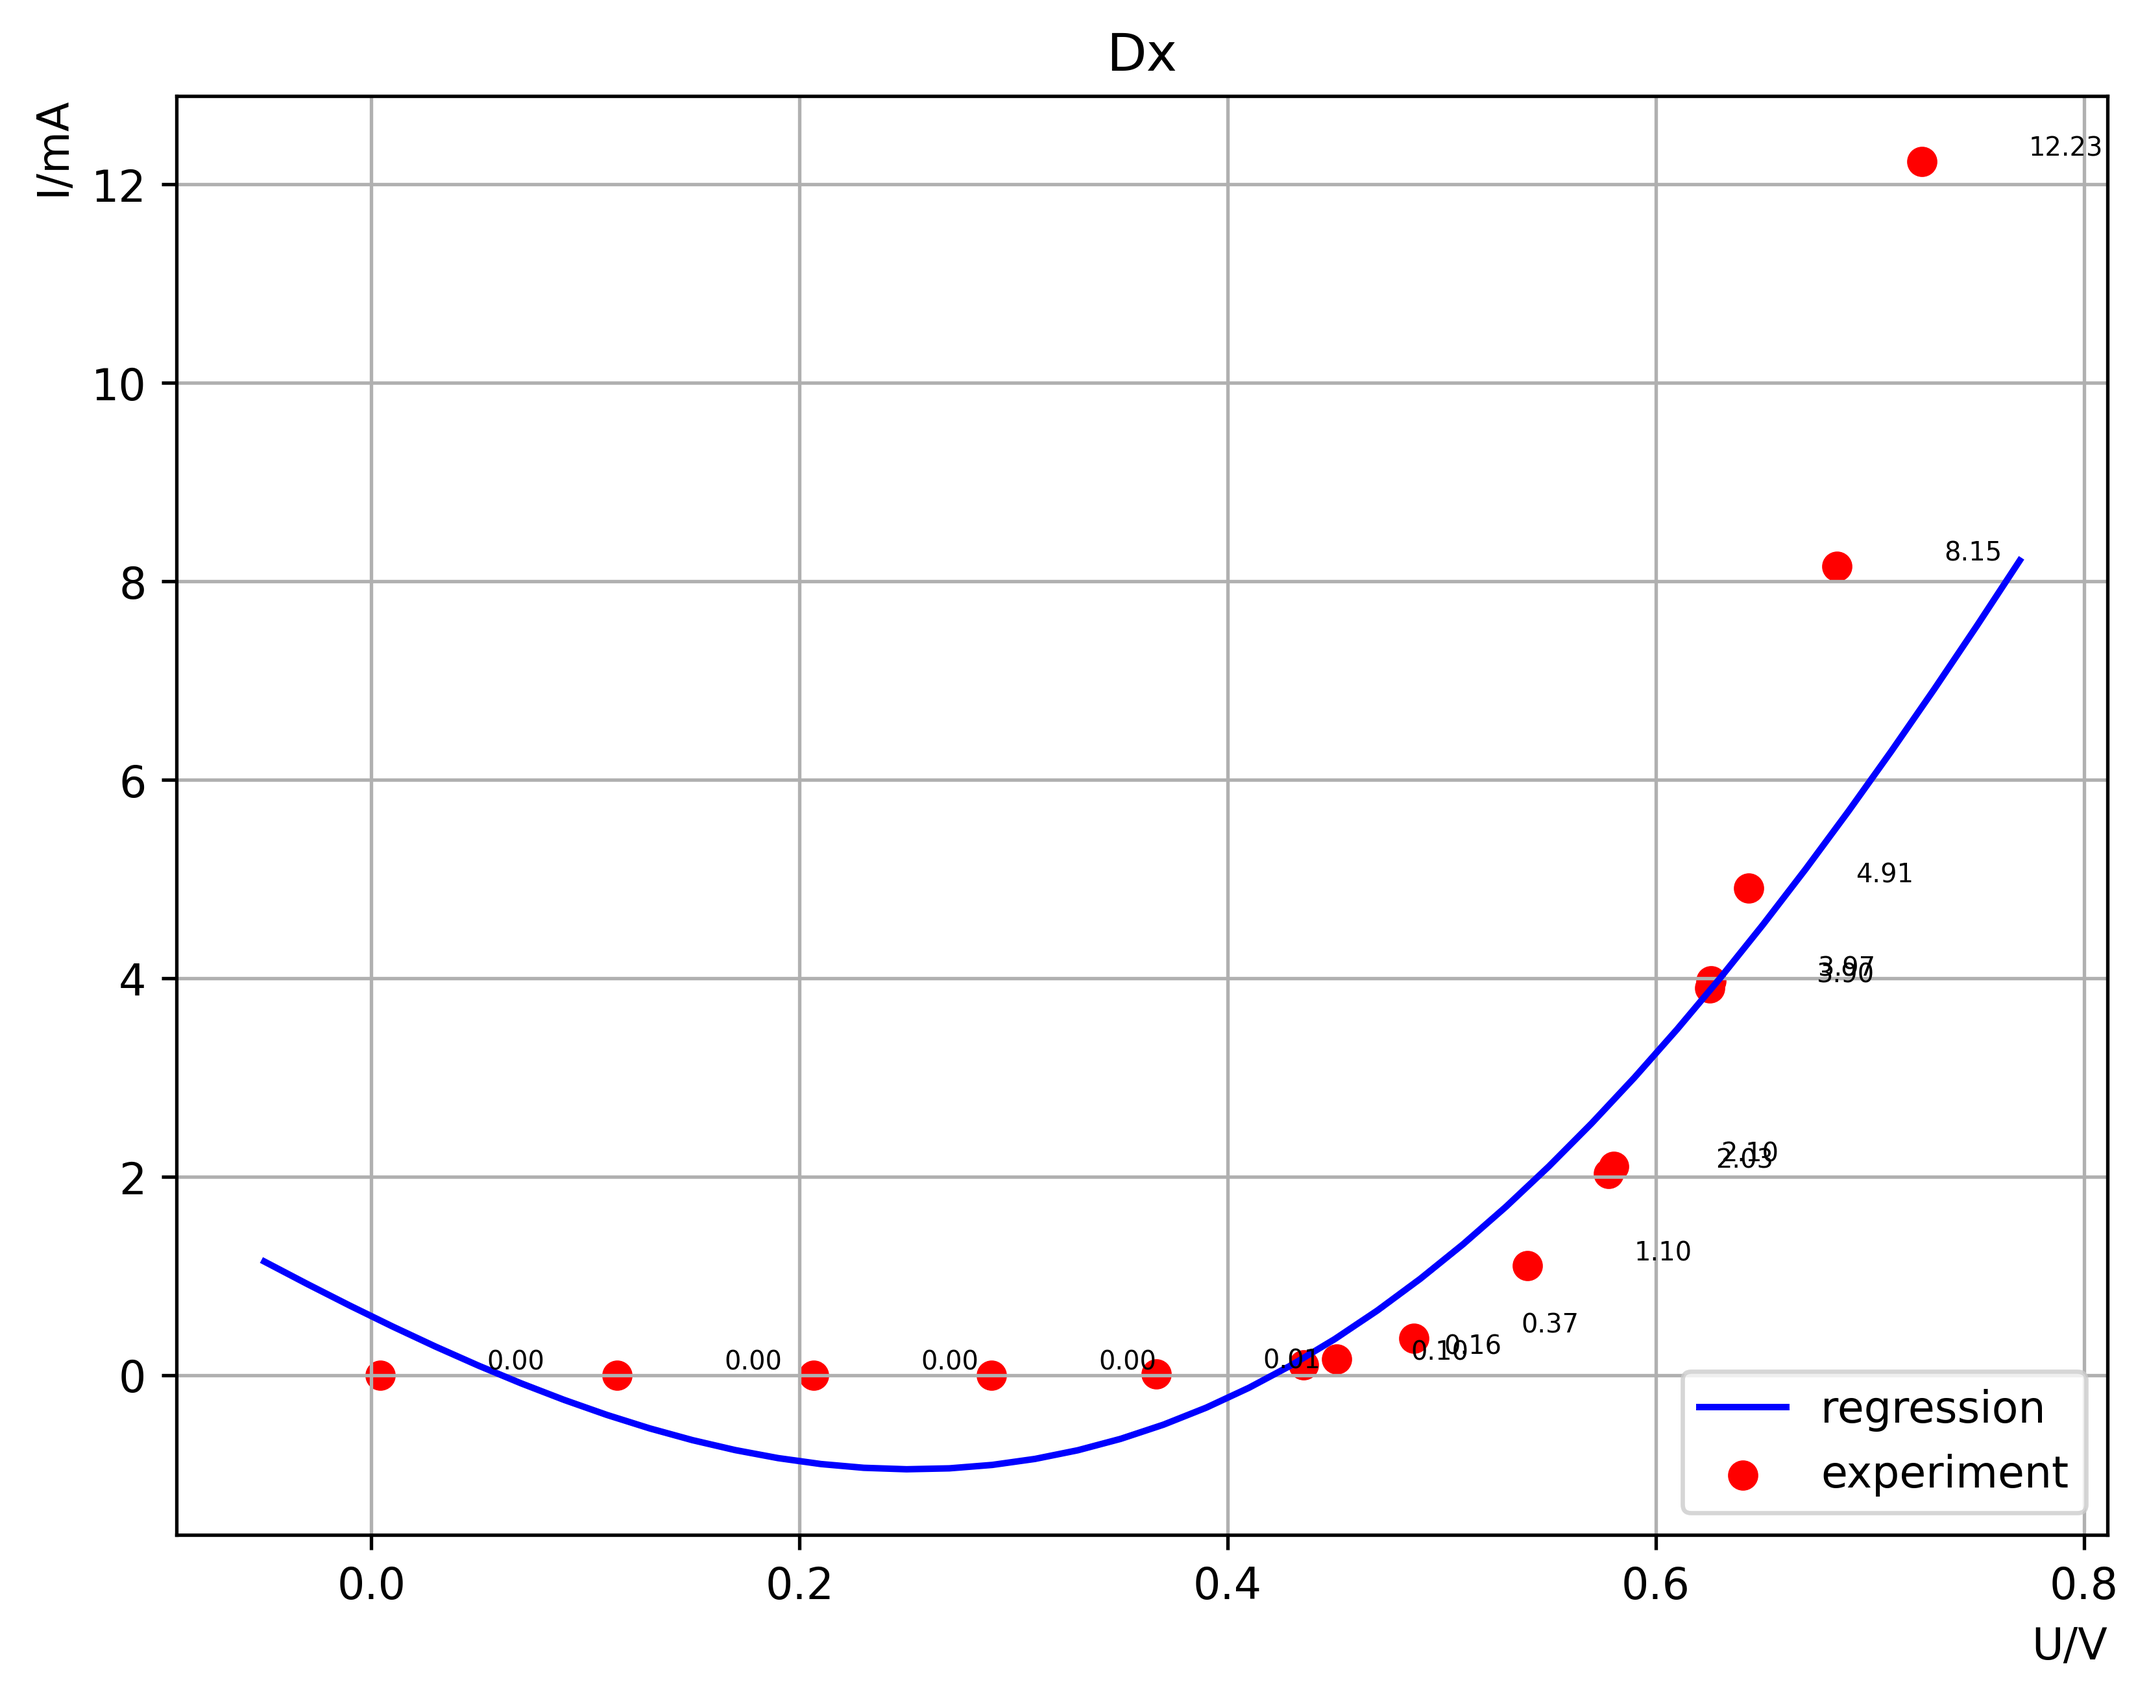
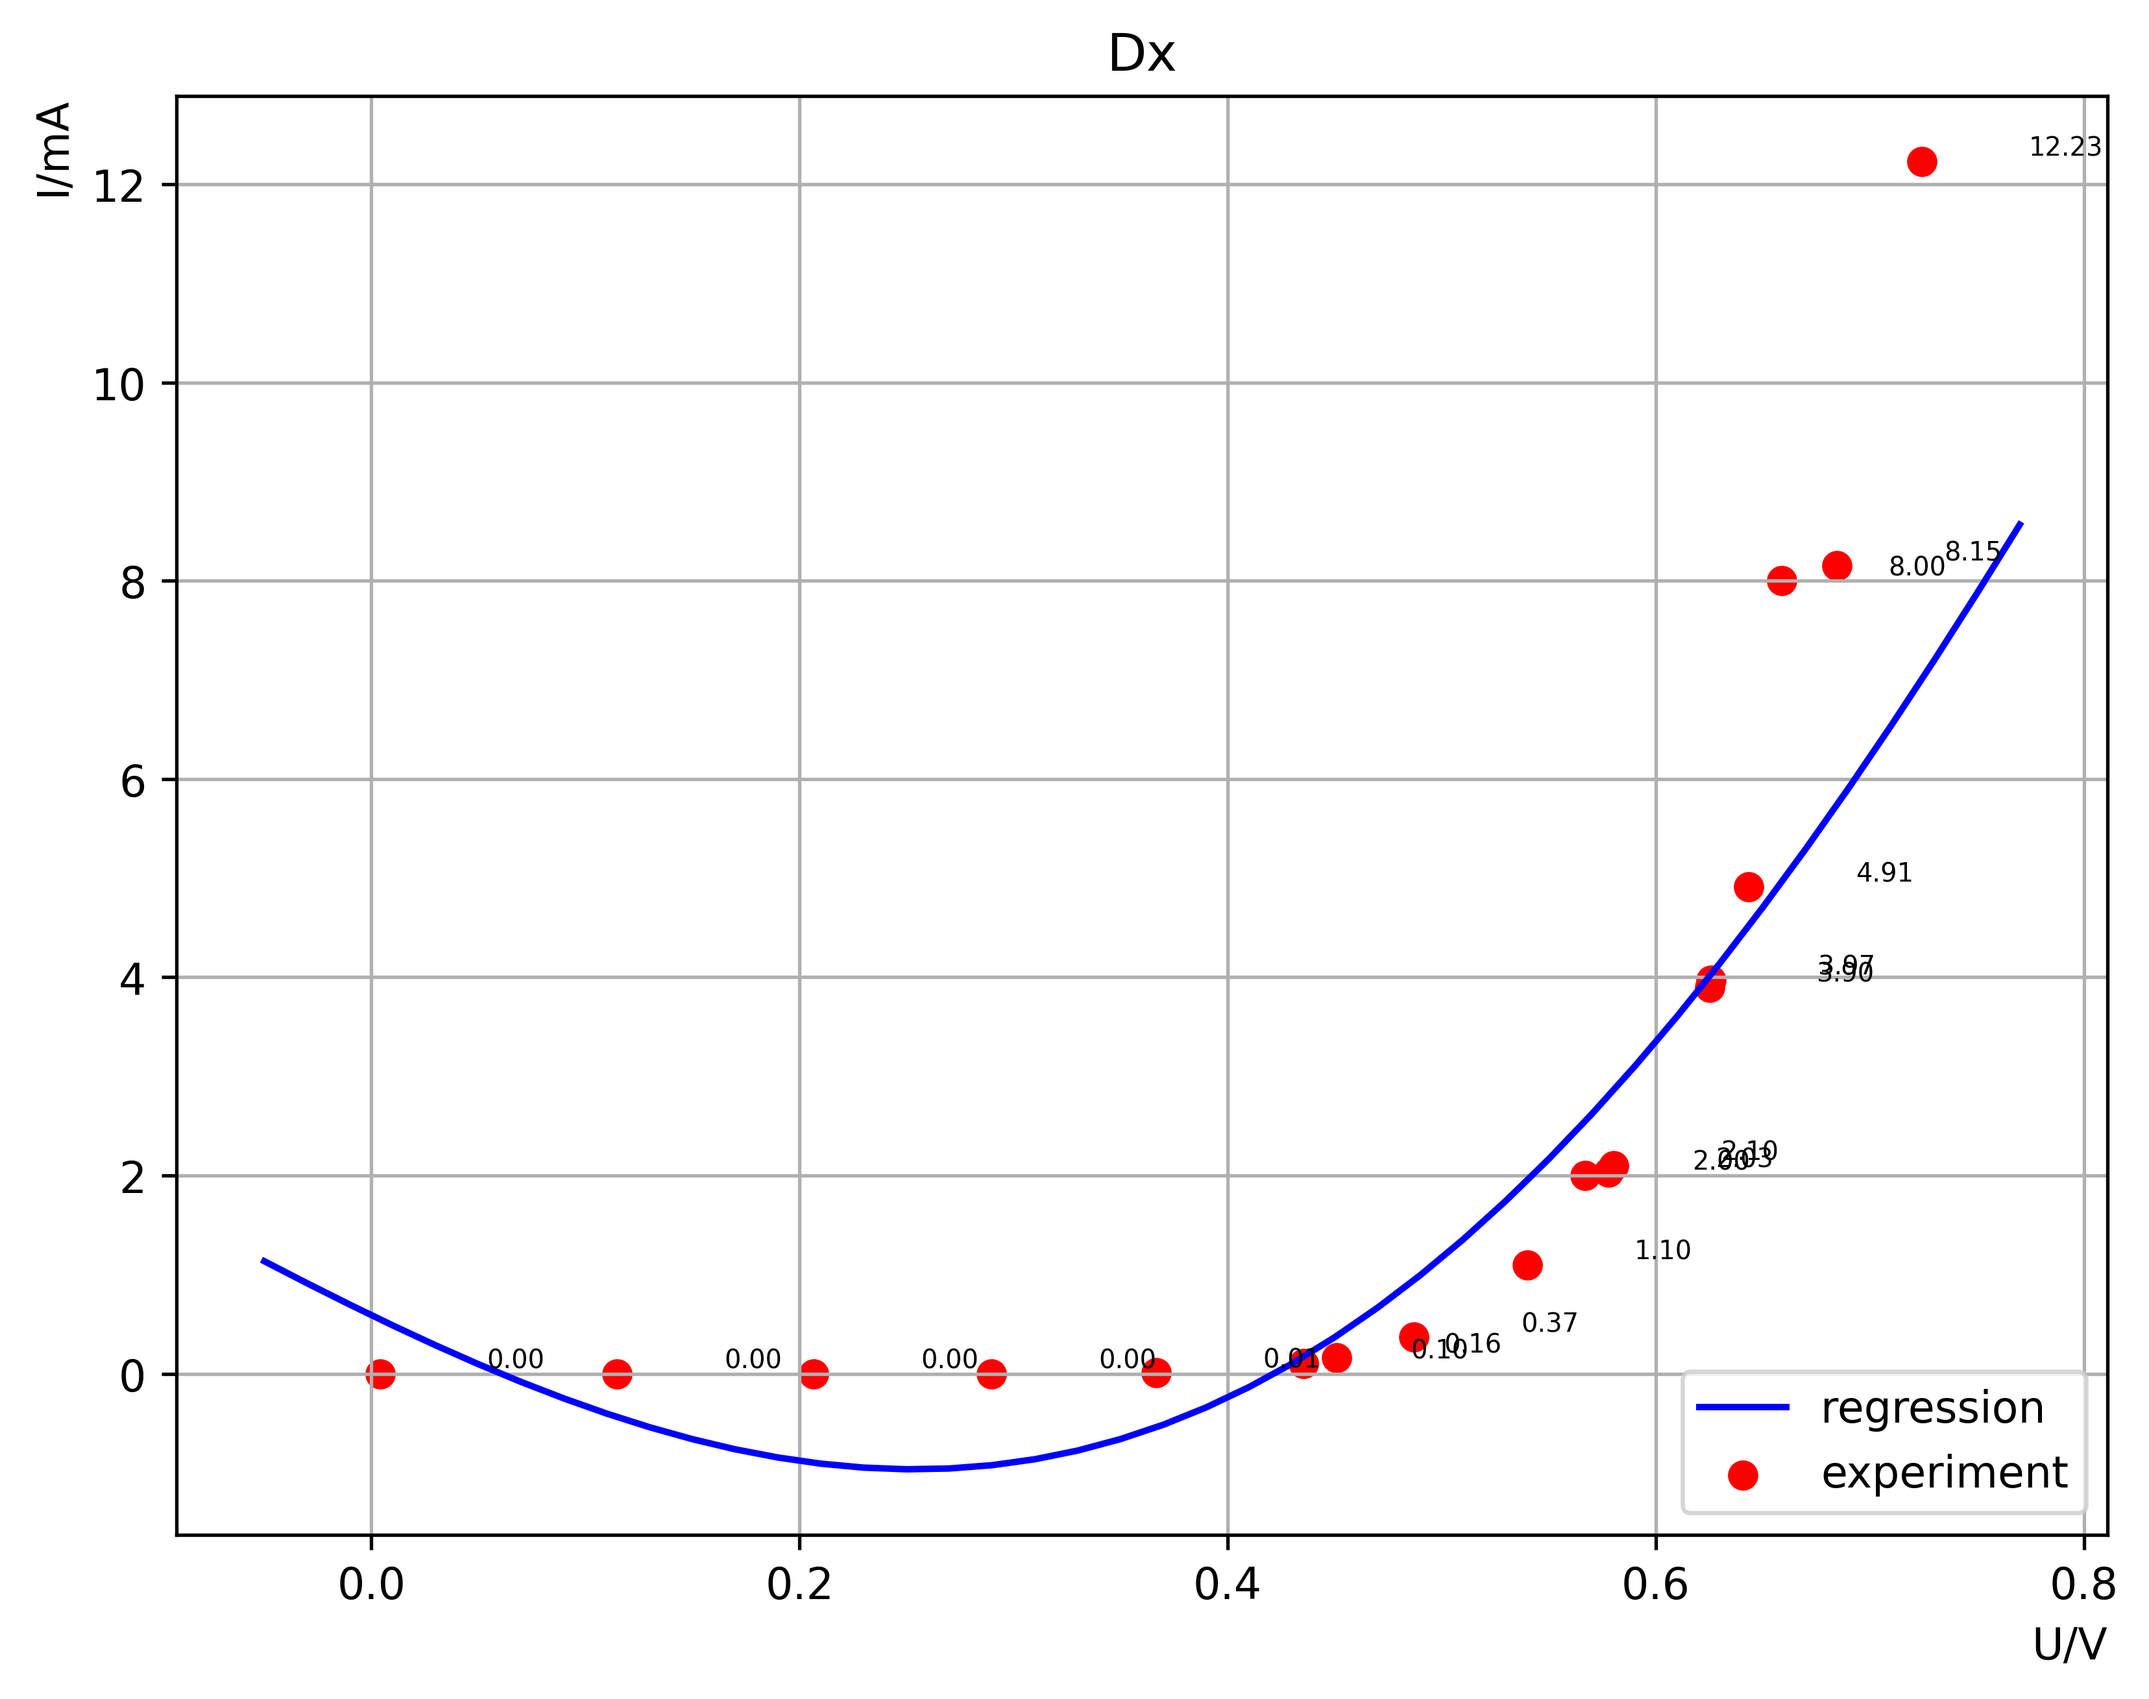
Final version

diff --git a/Voltammetry/analysis.py b/Voltammetry/analysis.py
@@ -4,7 +4,7 @@
 
 from datetime import datetime  # default
 from pandas import read_csv, DataFrame  # using 2.2.3
-from numpy import mean, sqrt, array, ndarray  # using 1.26.3
+from numpy import sqrt, array, ndarray  # using 1.26.3
 from sklearn.linear_model import LinearRegression  # using 1.6.1
 from sklearn.svm import SVR  # using 1.6.1
 from sklearn.model_selection import GridSearchCV  # using 1.6.1
@@ -18,10 +18,16 @@ def analysis_U_I_data(path: str) -> None:
     I_list: list[float] = [float(number) * 0.001 for number in csv["I"]]
 
     # Computation.
-    r_list: list[float] = [U_list[i] / I_list[i] for i in range(0, len(U_list))]
-    r: float = mean(r_list)
-    std: float = sqrt(
-        sum([(r_list[i] - r) ** 2 for i in range(len(r_list))]) / (len(r_list) - 1)
+    u1: float = U_list[0]
+    u2: float = U_list[len(U_list) - 1]
+    i1: float = I_list[0]
+    i2: float = I_list[len(U_list) - 1]
+
+    r: float = (u2 - u1) / (i2 - i1 - (u2 - u1) / 1e7)
+    delta_u: float = 0.02 * 0.01 * max(U_list) + 4 * 0.0001
+    delta_i: float = 1.2 * 0.01 * max(I_list) * 1000 + 3 * 0.01
+    px: float = sqrt(
+        (delta_u / (u2 - u1)) ** 2 + (delta_i * 0.001 / (i2 - i1)) ** 2
     )
 
     # Write results to file.
@@ -30,10 +36,11 @@ def analysis_U_I_data(path: str) -> None:
             result.write(f"\n[{datetime.now()} statistics output]\n")
         else:
             result.write(f"[{datetime.now()} statistics output]\n")
-        result.write(f"> R(average): {round(r, 2):.2f}\n")
-        result.write(f"> std: +- {round(std, 2):.2f} +- {3 * 0.01}\n")
-        result.write(f"> px: {round(std / r * 100, 2):.2f}%\n")
-        result.write(f"Result: {round(r, 2):.2f} +- {round(std, 2):.2f}\n")
+        result.write(f"> R: {round(r, 2):.2f}\n")
+        result.write(f"> delta_U: +- {round(delta_u, 4):.4f}V\n")
+        result.write(f"> delta_I: +- {round(delta_i, 2):.2f}mA\n")
+        result.write(f"> px: {round(px * 100, 2):.2f}%\n")
+        result.write(f"Result: {round(r, 2):.2f} +- {round(px * r, 2):.2f}\n")
 
 
 def draw_linear(path: str) -> None:
